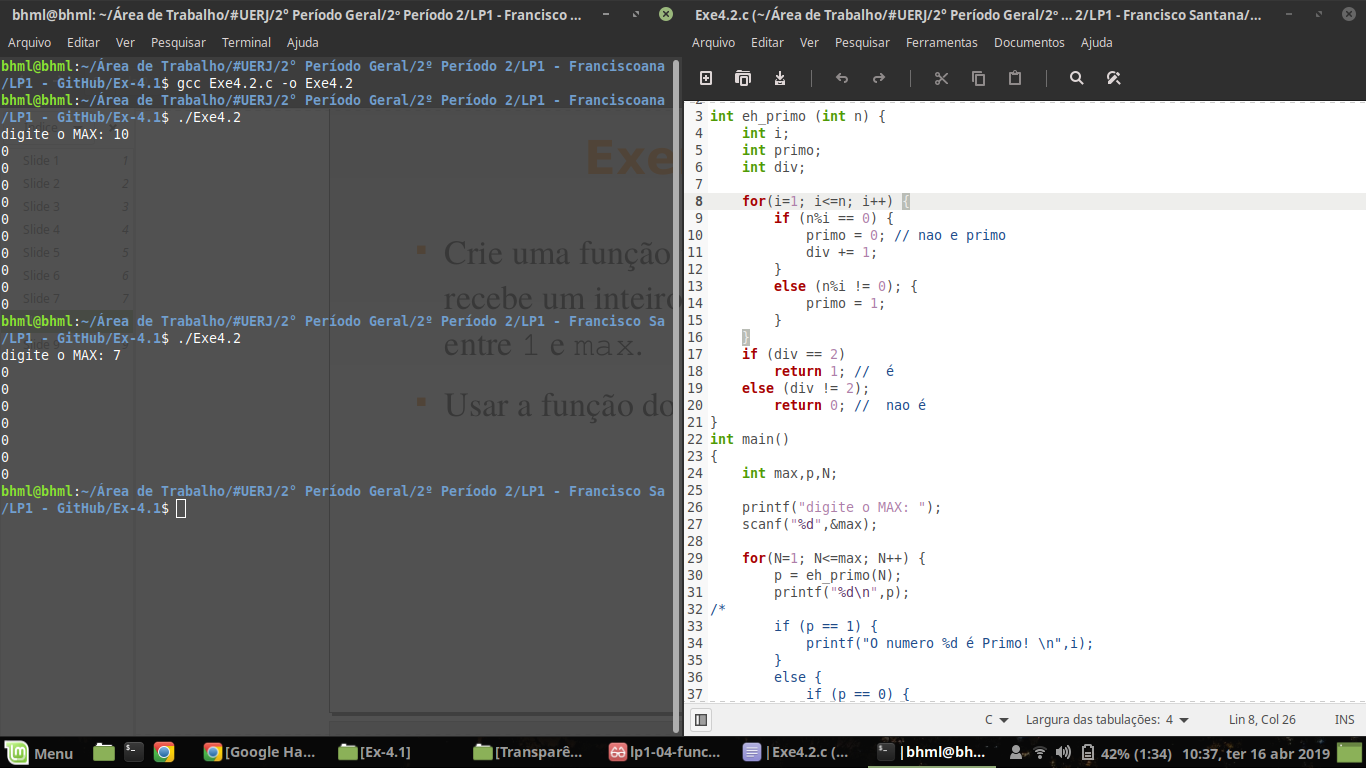
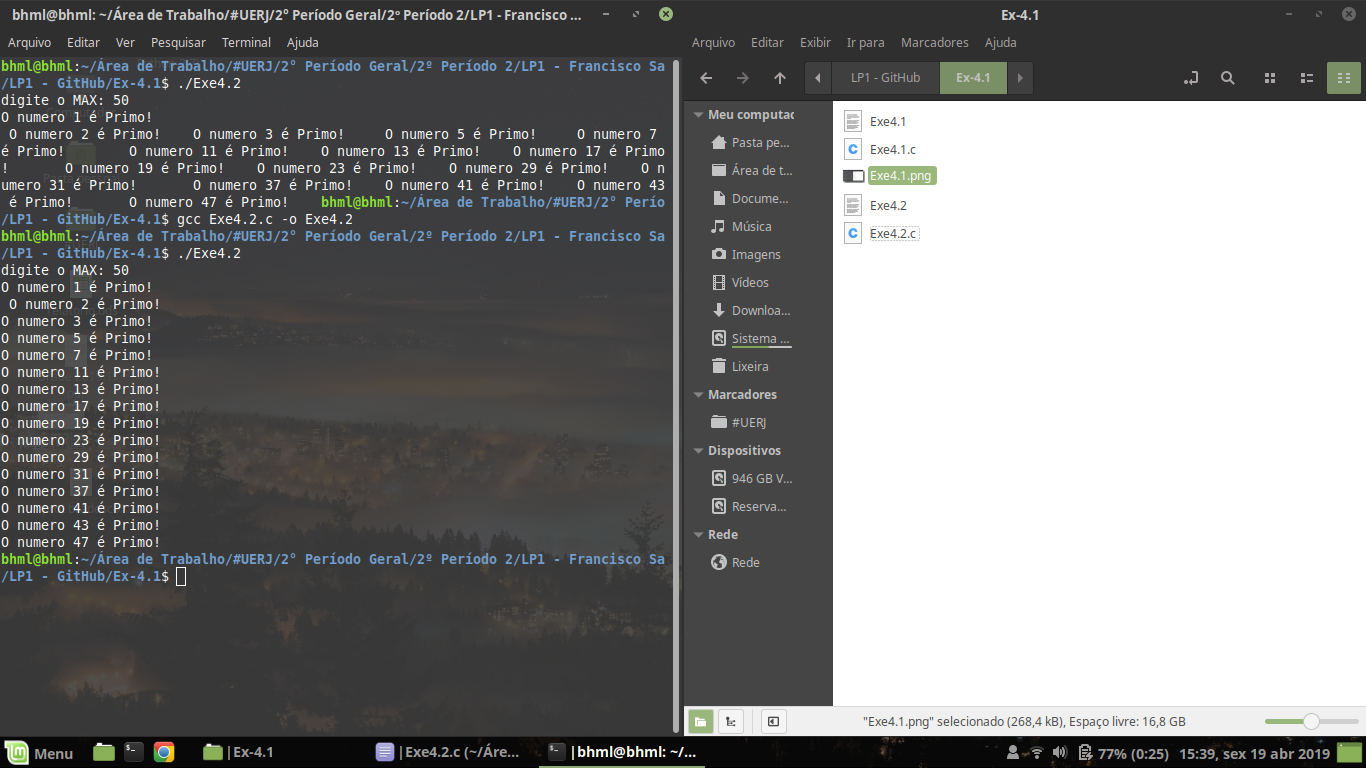
..

diff --git a/Ex-4.1/Exe4.2.c b/Ex-4.1/Exe4.2.c
@@ -3,17 +3,19 @@
 int eh_primo (int n) {
 	int i;
 	int primo;
-	int div;	
-
+	int div=0;	
+	
 	for(i=1; i<=n; i++) {
 		if (n%i == 0) {
  			primo = 0; // nao e primo
 			div += 1;
+			//printf("%d \n",div);
+
 		}
 		else (n%i != 0); {
 			primo = 1;
 		}
-	}	
+	}
 	if (div == 2)
 		return 1; //  é 
 	else (div != 2);
@@ -22,22 +24,24 @@ int eh_primo (int n) {
 int main()
 {
 	int max,p,N;
-
+	
 	printf("digite o MAX: ");
 	scanf("%d",&max);
 
+	printf("O numero 1 é Primo! \n "); // 1 é primo.
+	
 	for(N=1; N<=max; N++) {
 		p = eh_primo(N);
-		printf("%d\n",p);
-/*
+//		printf("%d\n",p);
+
 		if (p == 1) {
-			printf("O numero %d é Primo! \n",i);
+			printf("O numero %d é Primo! \n",N);
 		}
 		else {
 			if (p == 0) {
-			printf("O numero %d NÃO é Primo! \n",i);
+			//printf("O numero %d NÃO é Primo! \n",N);
 			}	
-		} */ 
+		} 
 	}
 
 	return 0;
